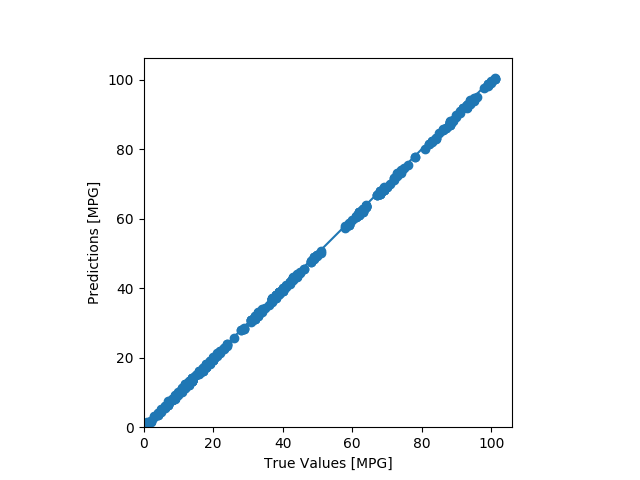
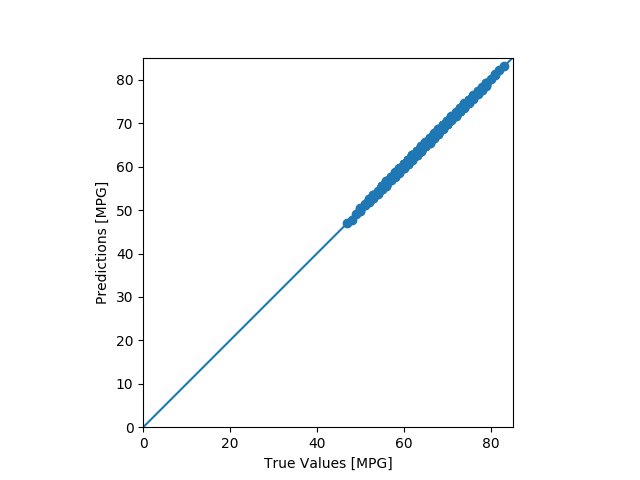
Retrained model on more realistic GPA data

diff --git a/predictor.py b/predictor.py
@@ -85,10 +85,10 @@ model.compile(loss='mean_squared_error',
               optimizer=optimizer,
               metrics=['mean_absolute_error', 'mean_squared_error'])
 
-if os.path.isfile('./checkpoint'):
+'''if os.path.isfile('./checkpoint'):
     model.load_weights('./most_recent_model')
-else:
-    model.fit(
+else:'''
+model.fit(
         input_rows, classifications,
         epochs=1000, validation_split=0.2, verbose=0)
 
@@ -109,5 +109,5 @@ plt.xlim([0, plt.xlim()[1]])
 plt.ylim([0, plt.ylim()[1]])
 _ = plt.plot([-100, 100], [-100, 100])
 plt.savefig('static/recent_model.png')
-plt.show()
+# plt.show()
 model.save_weights('./most_recent_model')
